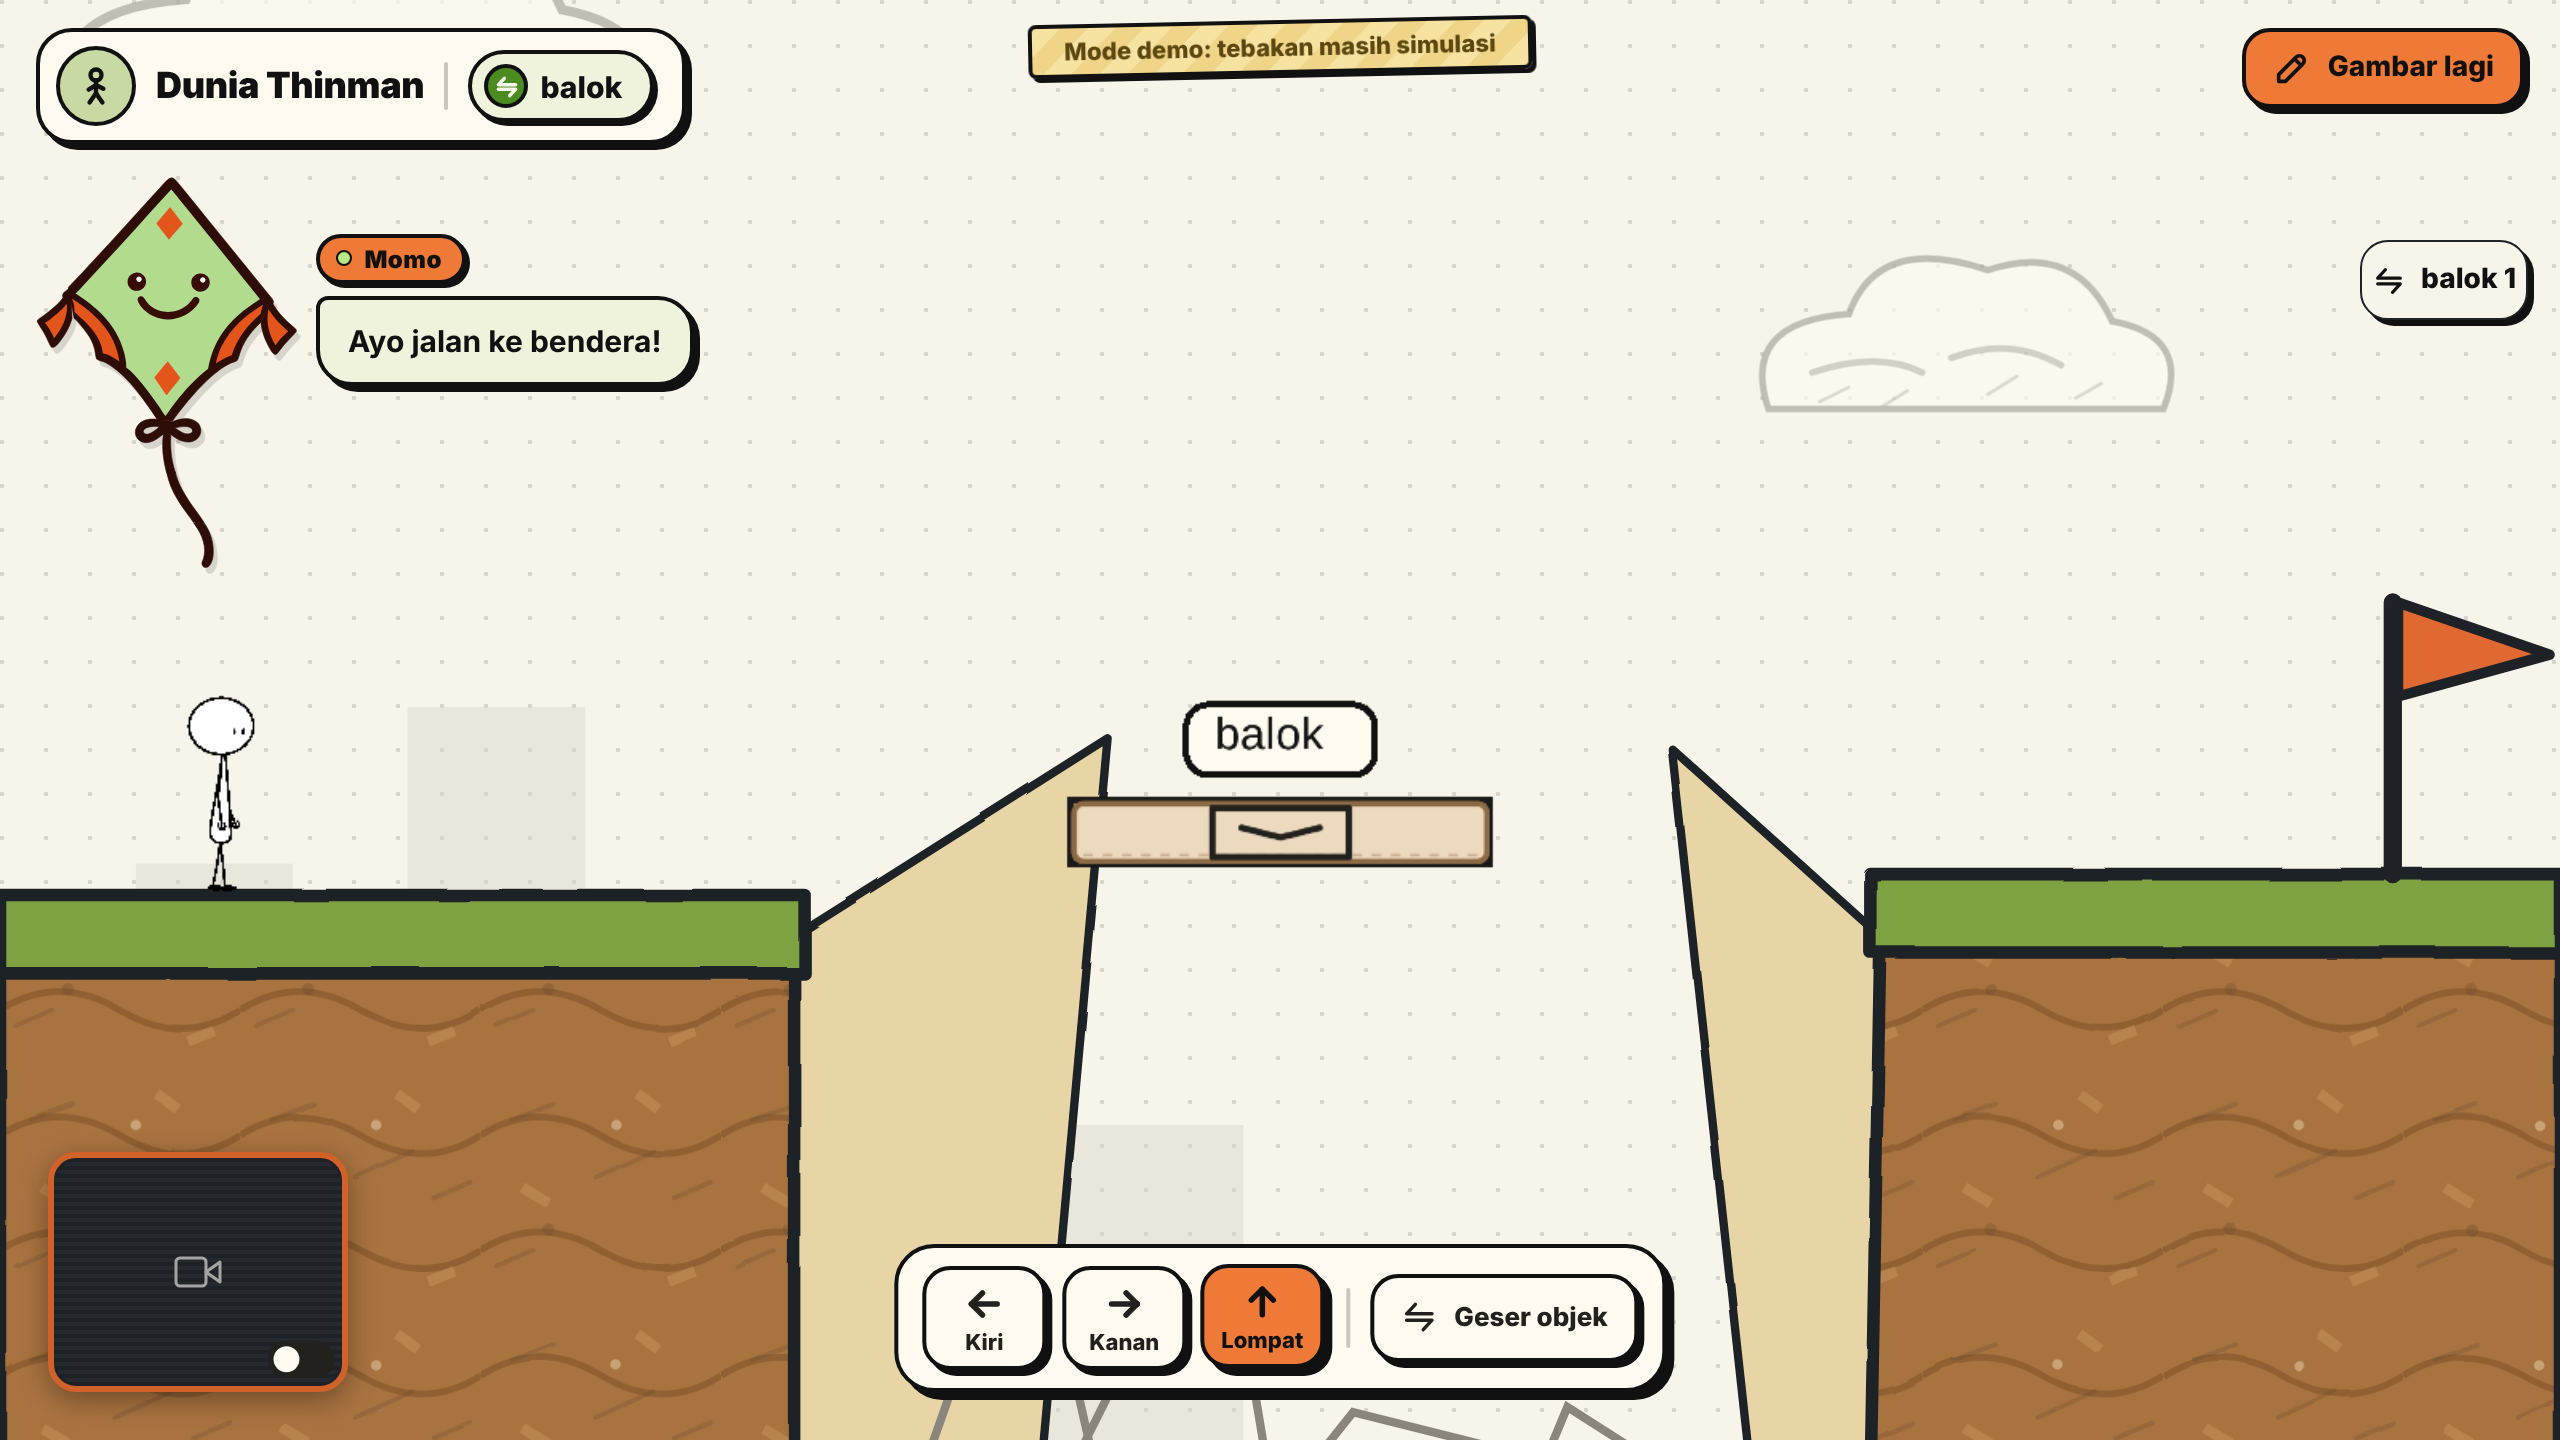
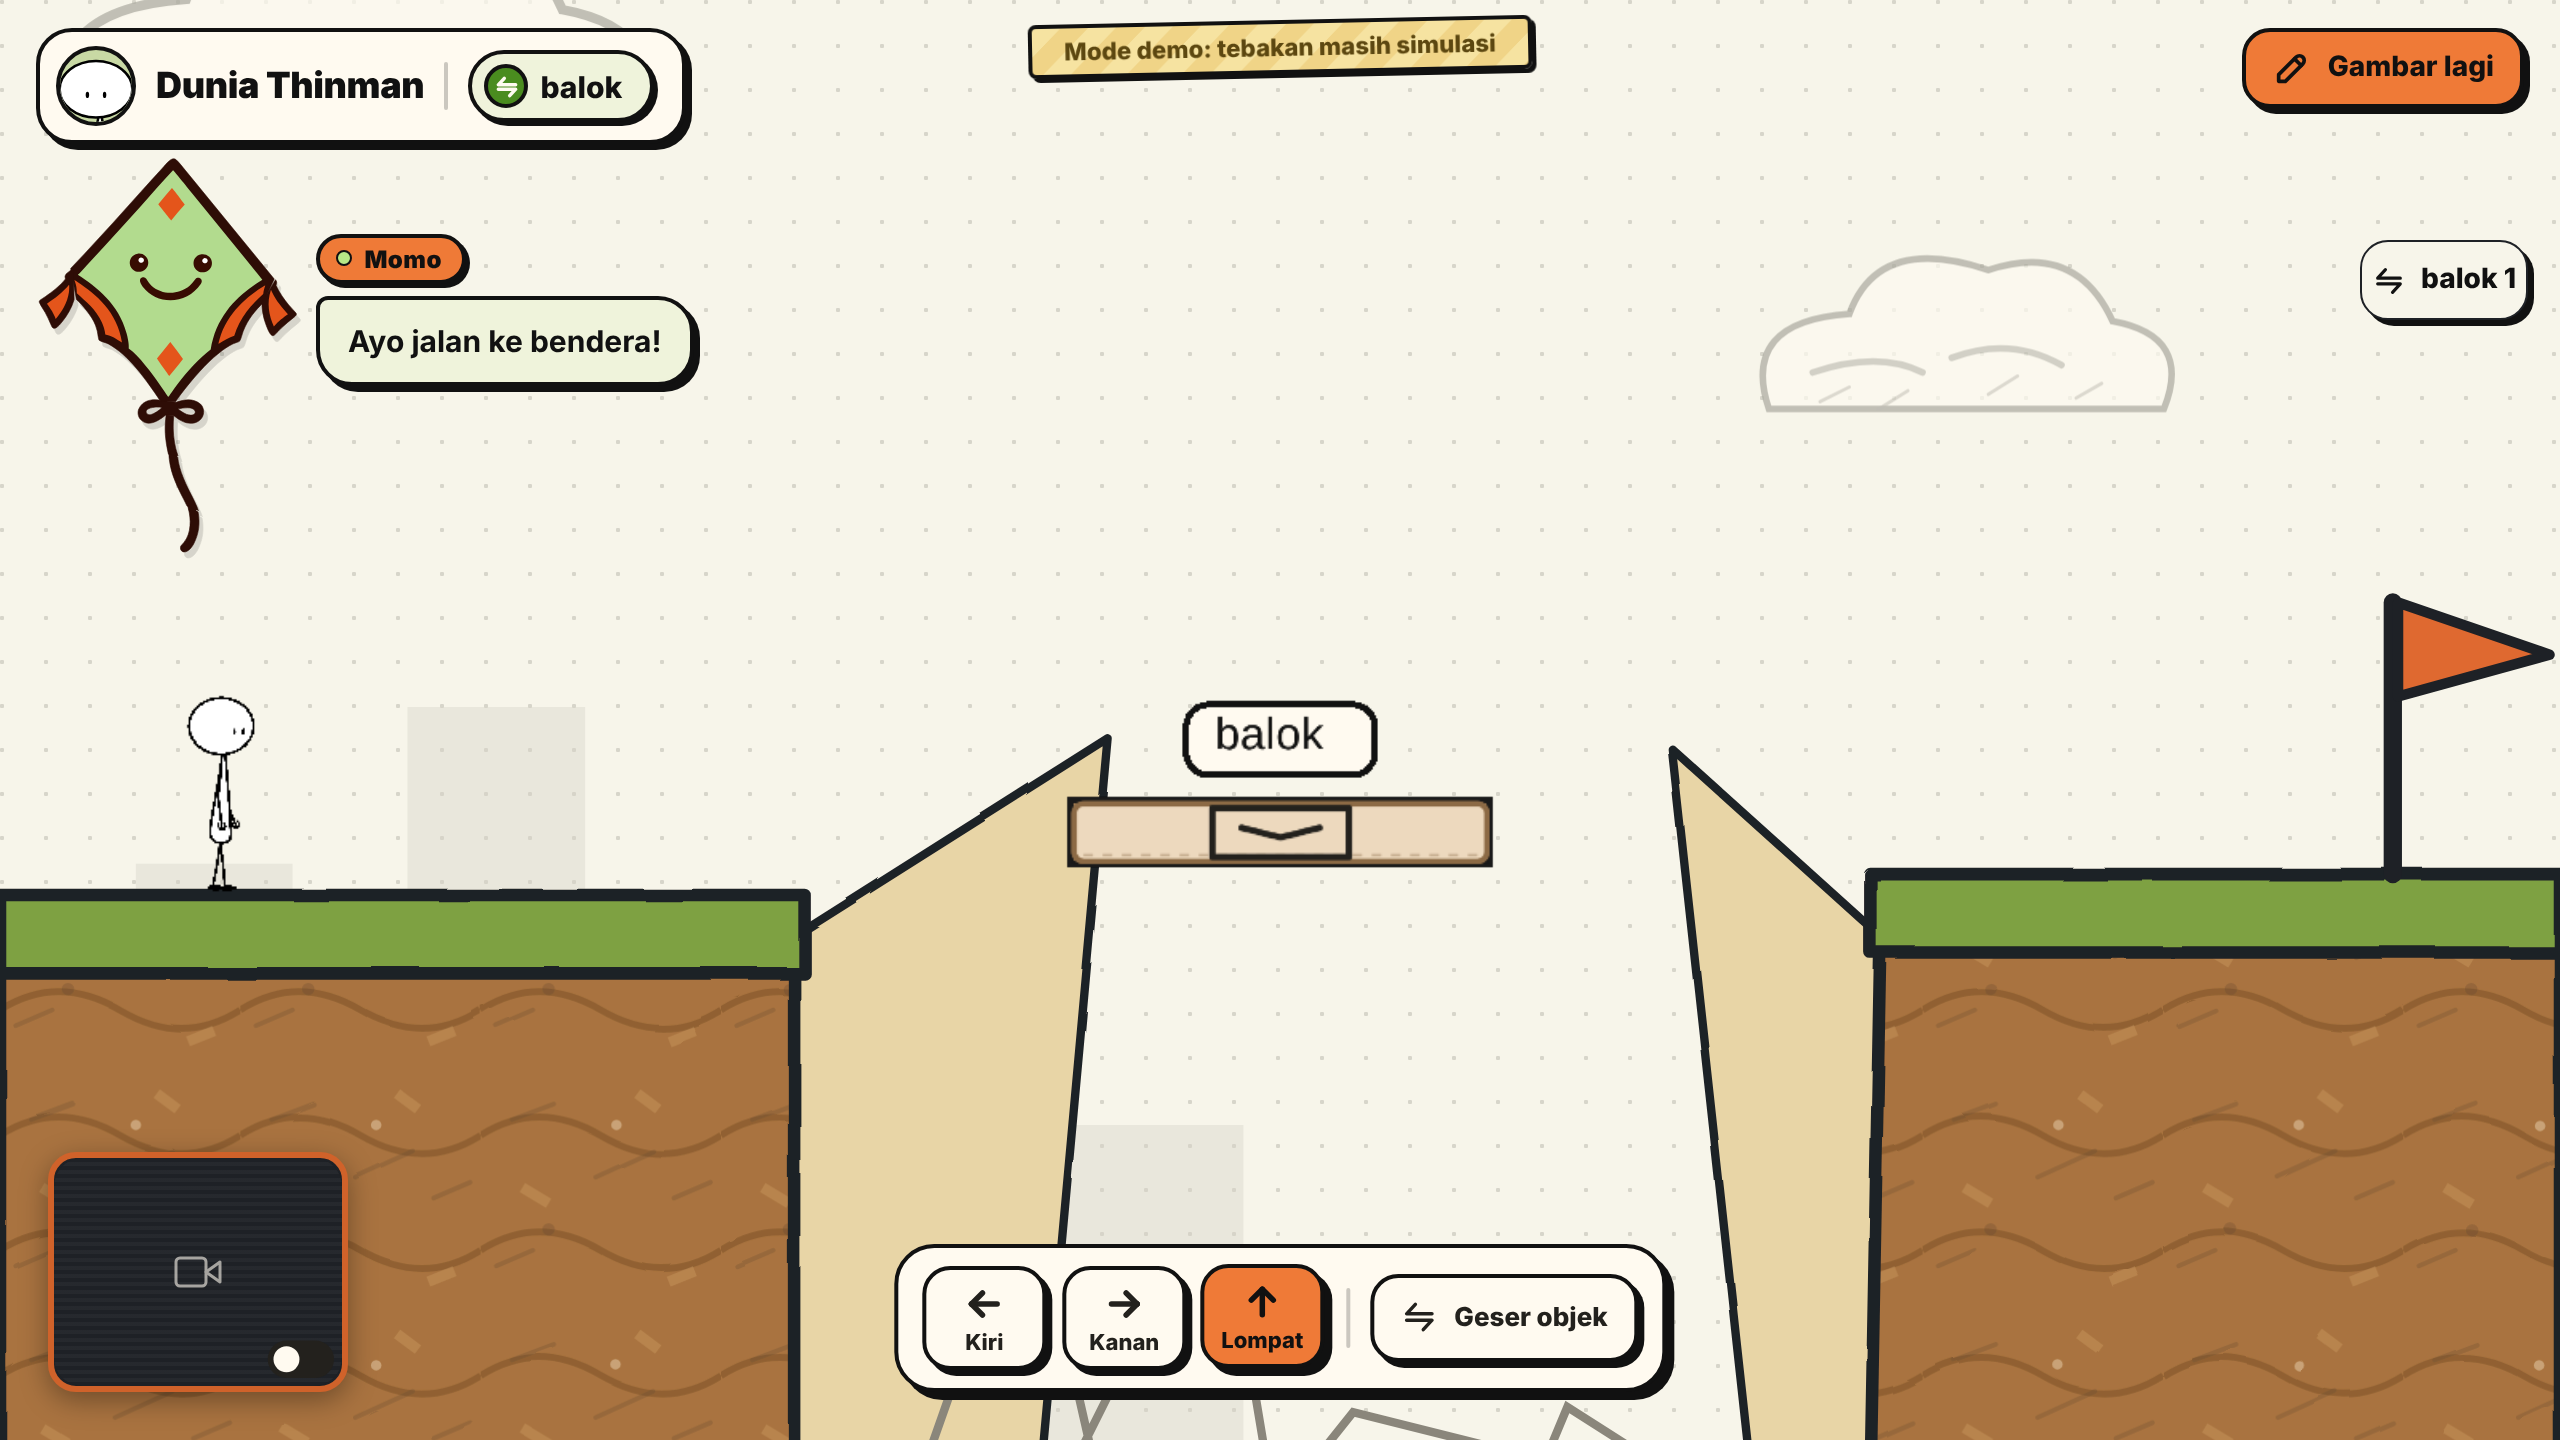
fix(ui): HUD world badge shows the real Thinman head instead of a stick-figure glyph; refresh evidence

Changed region(s): [[0.0, 0.0938, 0.125, 0.4062], [0.0, 0.0312, 0.0625, 0.0938]]

diff --git a/implementation/app/styles/97-kit-screens.css b/implementation/app/styles/97-kit-screens.css
@@ -5,7 +5,7 @@
 /* ======================= World HUD ======================= */
 #screen-gameplay .stage-floating-header.hud { top: 14px; left: 18px; right: 18px; align-items: flex-start; gap: 12px; }
 .hud-plate { display: inline-flex; align-items: center; gap: 10px; padding: 7px 14px 7px 8px; border-radius: 18px; box-shadow: var(--nb-shadow-sm); }
-.hud-plate__mark { display: grid; place-items: center; width: 40px; height: 40px; flex: none; color: var(--nb-ink); background: var(--nb-leaf); border: 2.5px solid var(--nb-ink); border-radius: 50%; }
+.hud-plate__mark { position: relative; overflow: hidden; display: block; width: 40px; height: 40px; flex: none; color: var(--nb-ink); background: var(--nb-leaf); border: 2.5px solid var(--nb-ink); border-radius: 50%; }
 .hud-plate__title { margin: 0; font-size: 18px; font-weight: 900; letter-spacing: -.01em; color: var(--nb-ink); white-space: nowrap; }
 .hud-plate__sep { width: 2px; height: 24px; background: rgba(17, 17, 17, .22); border-radius: 2px; }
 .hud-plate .decision-chip { margin: 0; font-size: 15px; padding: 5px 14px 5px 6px; box-shadow: 2px 2px 0 var(--nb-ink); }
@@ -196,3 +196,5 @@
 .thinman-art svg { display: block; width: 100%; height: auto; overflow: visible; }
 .intro-world__art { position: absolute; }
 .intro-thinman { position: absolute; width: 4.6%; transform: translate(-50%, -96.7%); pointer-events: none; }
+.hud-plate__mark .thinman-art { position: absolute; left: 50%; top: 3px; width: 54px; transform: translateX(-50%); }
+@media (max-width: 760px) { .hud-plate__mark .thinman-art { width: 40px; top: 2px; } }

diff --git a/implementation/src/components/game/StageHeader.tsx b/implementation/src/components/game/StageHeader.tsx
@@ -3,6 +3,7 @@
  * Right: hand-control toggle and "Gambar lagi". Everything is icon + short word; no parenthesised hints.
  */
 import { Icon, type IconName } from "../ui/Icon";
+import { ThinmanArt } from "../ui/ThinmanArt";
 import type { HumanDecision } from "@/src/domain/types";
 import type { InputMode } from "./game-stage-types";
 
@@ -45,7 +46,7 @@ export function StageHeader({
     <div className="stage-floating-header hud">
       <div className="hud-plate nb-card">
         <span className="hud-plate__mark" aria-hidden="true">
-          <Icon name="thinman" size={22} stroke={2.4} />
+          <ThinmanArt />
         </span>
         <h2 className="hud-plate__title">Dunia {characterName}</h2>
         <span className="hud-plate__sep" aria-hidden="true" />
